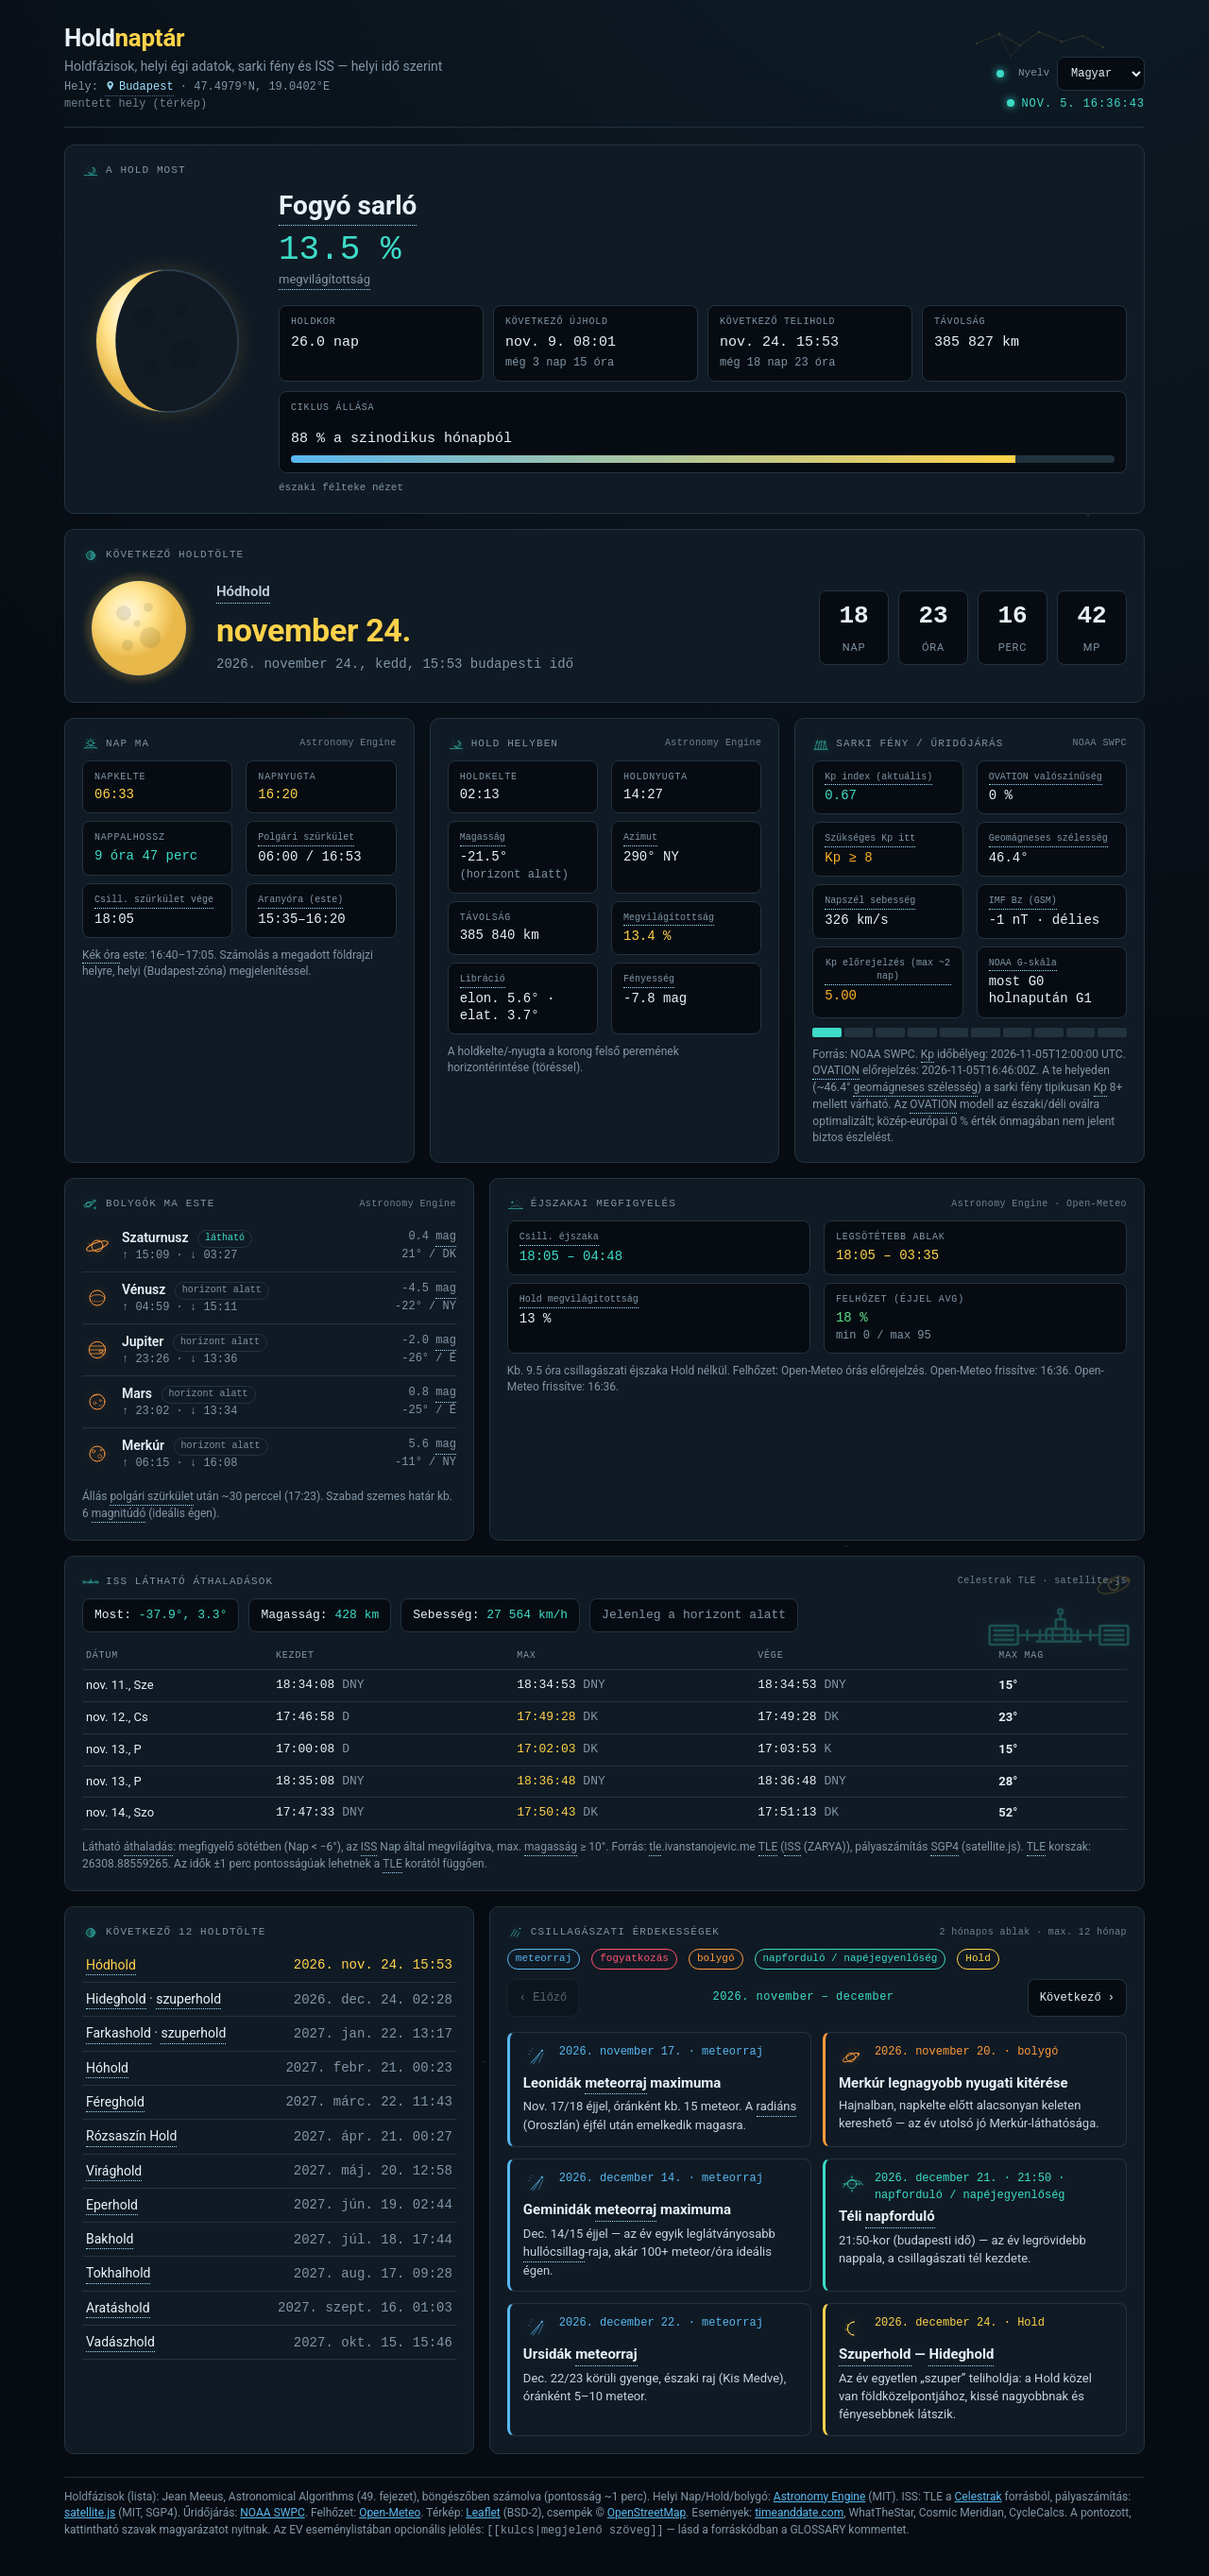
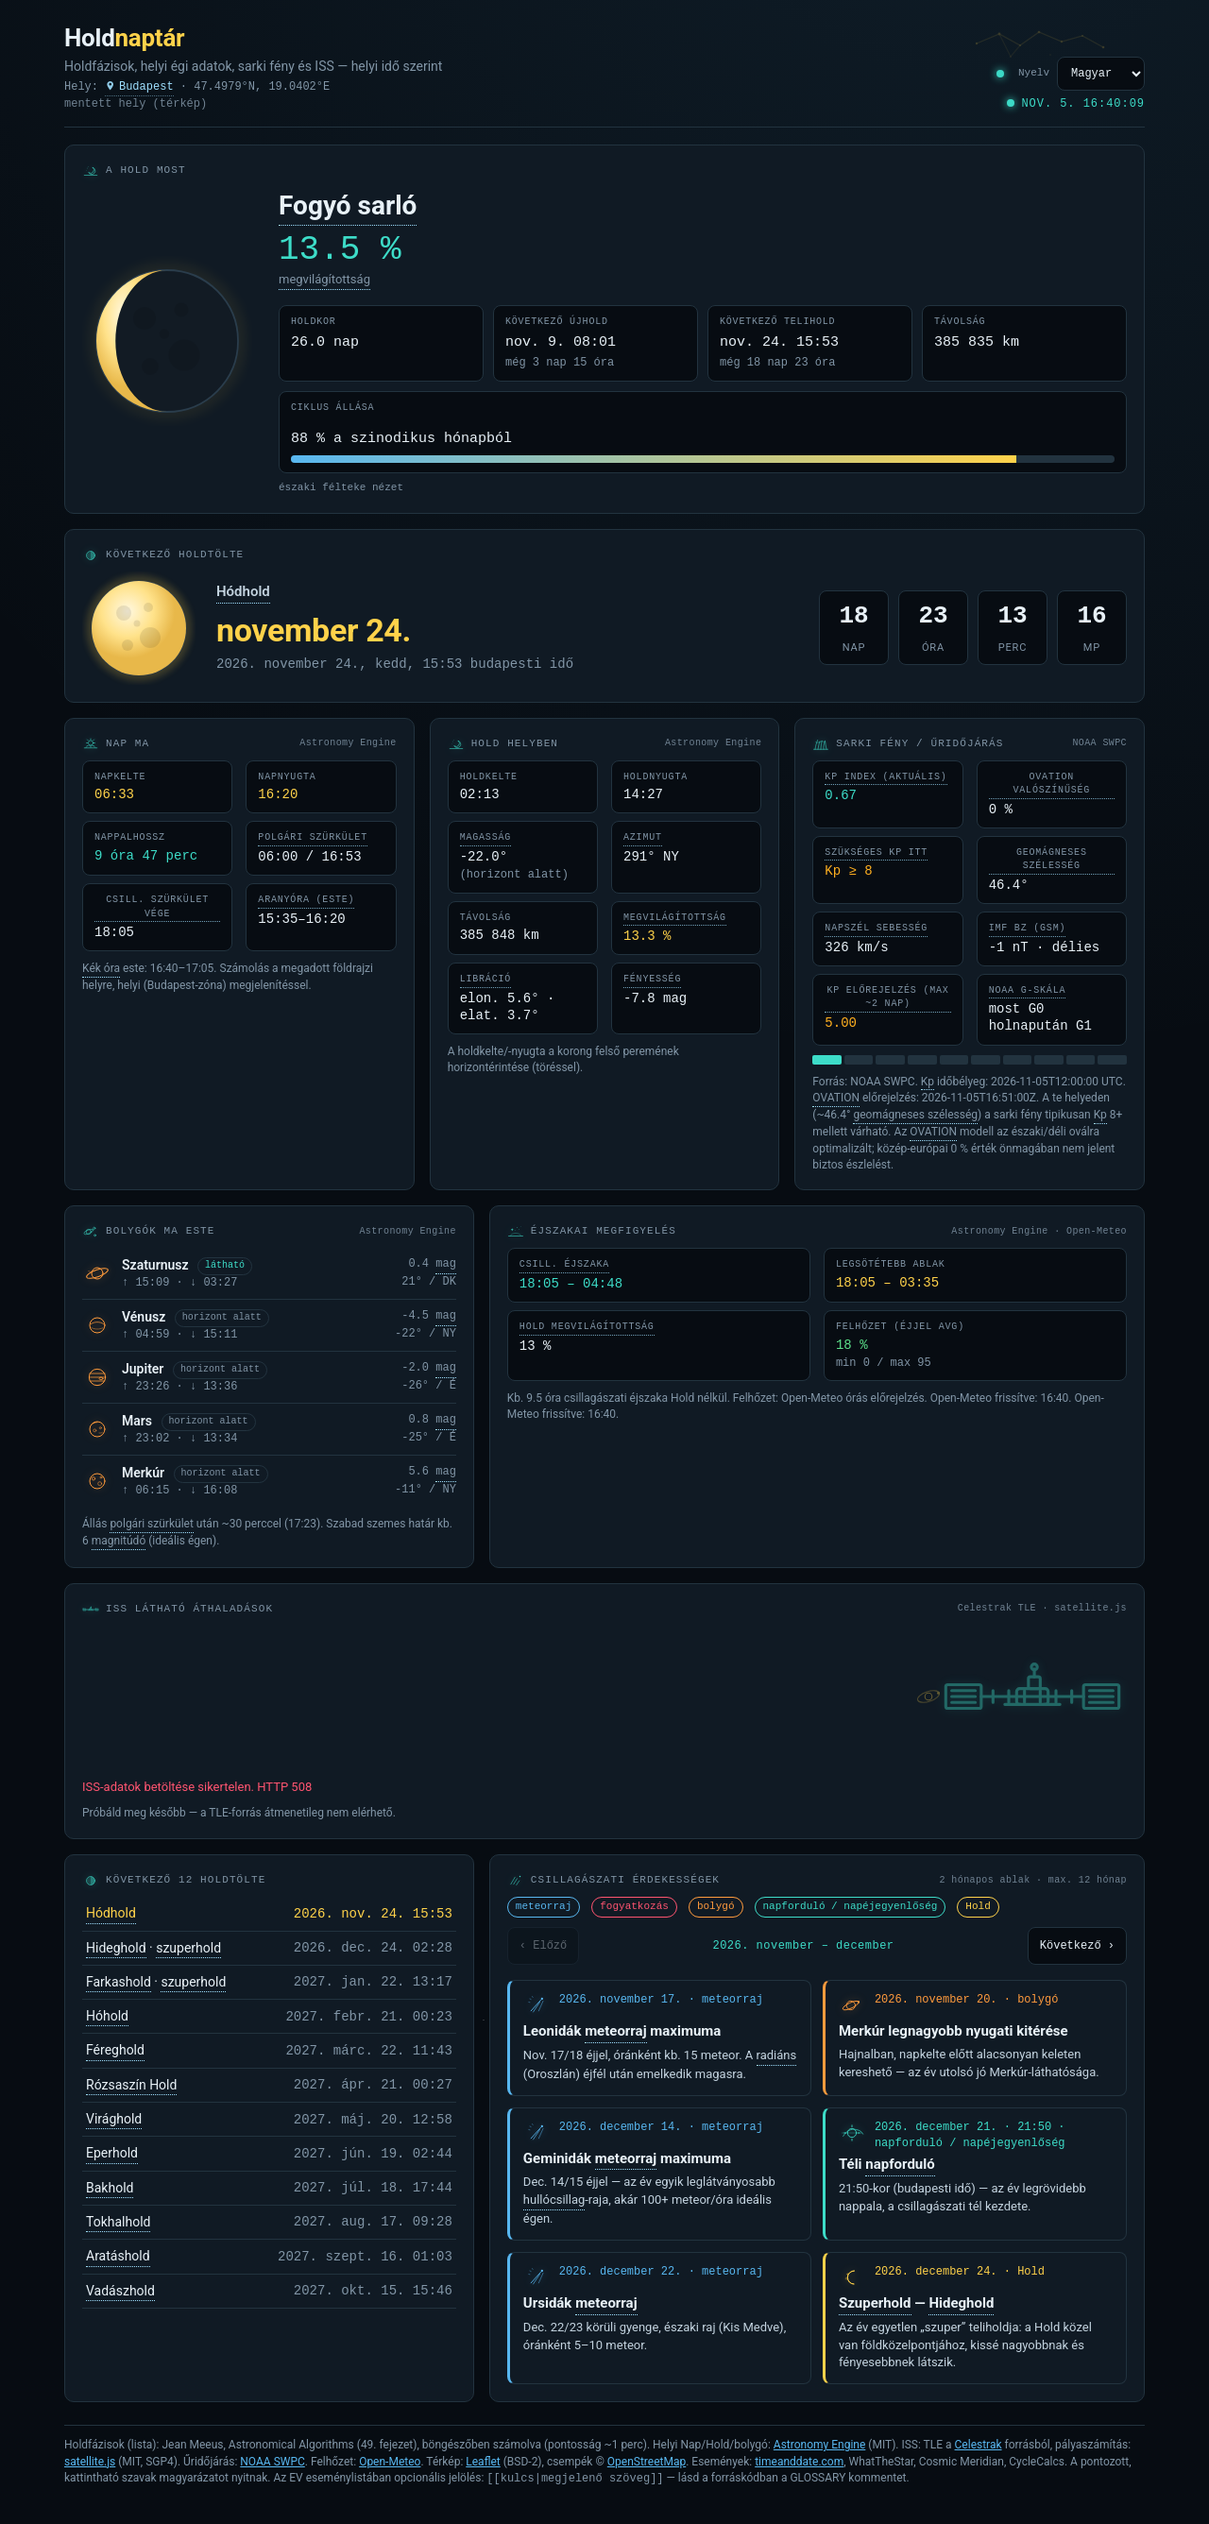
Polish ISS art placement and night kv term labels
Move ISS silhouette + orbit into a chips-row companion (≈200px) so they
no longer overlap the source label or table headers; hide on narrow
viewports. Make glossary term labels inside kv cells uppercase with
matching letter-spacing so they match plain kv labels.

diff --git a/index.html b/index.html
@@ -160,10 +160,16 @@ footer a{color:var(--blue)}
 .lbl .ico{color:var(--cyan)}
 .lbl-with-ico{display:flex;align-items:center;gap:0;flex-wrap:wrap}
 .lbl-with-ico .src{float:none;margin-left:auto}
-.card-ico-wrap{position:relative}
-.iss-art{position:absolute;right:10px;top:8px;width:min(160px,42%);height:auto;color:var(--cyan);opacity:.28;pointer-events:none;filter:drop-shadow(0 0 6px color-mix(in srgb,var(--cyan) 40%,transparent))}
-.iss-orbit{position:absolute;right:6px;top:4px;width:52px;height:52px;color:var(--yel);opacity:.22;pointer-events:none}
-@media(max-width:520px){.iss-art{opacity:.18;width:min(120px,48%)}.iss-orbit{display:none}}
+.iss-row{display:flex;align-items:center;justify-content:space-between;gap:14px;margin:8px 0 12px;min-width:0}
+.iss-row .iss-live{flex:1 1 auto;min-width:0;margin:0}
+.iss-art-wrap{flex:0 0 auto;display:flex;align-items:center;justify-content:flex-end;pointer-events:none;line-height:0}
+.iss-art{width:200px;height:auto;max-width:28vw;color:var(--cyan);opacity:.4;filter:drop-shadow(0 0 6px color-mix(in srgb,var(--cyan) 35%,transparent))}
+.iss-orbit{width:36px;height:36px;margin-right:-8px;color:var(--yel);opacity:.35}
+@media(max-width:900px){.iss-art{width:160px;opacity:.32}}
+@media(max-width:700px){.iss-art{width:120px;opacity:.28}.iss-orbit{display:none}}
+@media(max-width:520px){.iss-art-wrap{display:none}}
+/* glossary term labels inside kv match plain .k look */
+.kv .k button.term{text-transform:uppercase;letter-spacing:.08em;font-size:inherit;border-bottom-color:color-mix(in srgb,var(--sky) 70%,transparent)}
 .p-ico{width:32px;height:32px;flex:0 0 32px;color:var(--org);filter:drop-shadow(0 0 5px color-mix(in srgb,var(--org) 30%,transparent))}
 .plist li{align-items:center}
 .plist .pi{flex:1;min-width:0}
@@ -442,11 +448,15 @@ header{position:relative}
 </section>
 </div>
 
-<section class="card card-ico-wrap" id="card-iss" style="margin-top:16px">
-  <svg class="iss-orbit" aria-hidden="true" focusable="false"><use href="#ico-orbit"/></svg>
-  <svg class="iss-art" aria-hidden="true" focusable="false"><use href="#ico-iss"/></svg>
+<section class="card" id="card-iss" style="margin-top:16px">
   <div class="lbl lbl-with-ico"><svg class="ico" aria-hidden="true" focusable="false"><use href="#ico-iss"/></svg><span data-i18n="lbl_iss">ISS látható áthaladások</span> <span class="src">Celestrak TLE · satellite.js</span></div>
-  <div class="iss-live" id="iss-live"></div>
+  <div class="iss-row">
+    <div class="iss-live" id="iss-live"></div>
+    <div class="iss-art-wrap" aria-hidden="true">
+      <svg class="iss-orbit" focusable="false"><use href="#ico-orbit"/></svg>
+      <svg class="iss-art" focusable="false"><use href="#ico-iss"/></svg>
+    </div>
+  </div>
   <div class="loading" id="iss-status">Áthaladások számolása…</div>
   <div id="iss-table-wrap" hidden>
     <table class="iss-table"><thead><tr>
